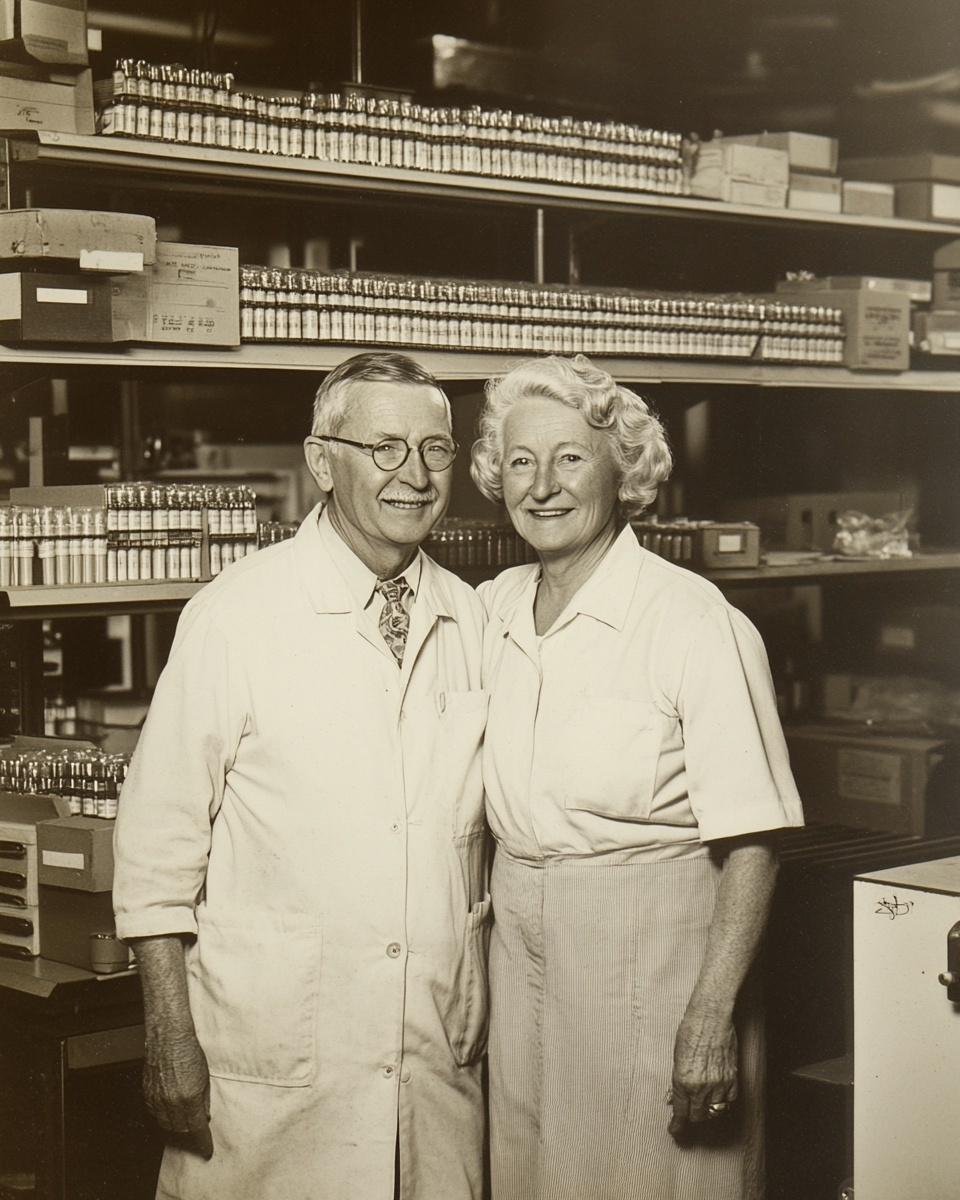
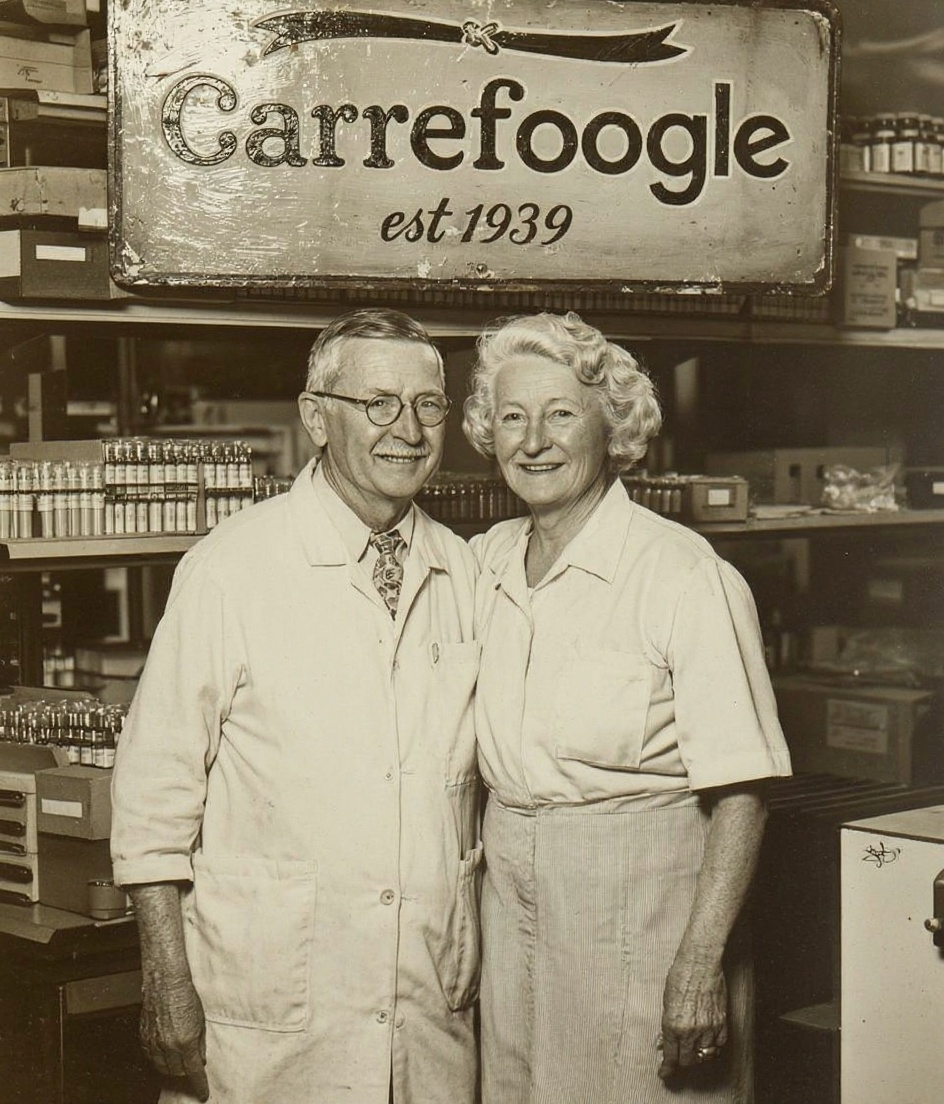
Update founders image with Kontext-enhanced version, refactor story layout
Replace founders photo with AI-enhanced vintage version featuring
Carrefoogle est 1939 signage and more authentic film grain/aging.
Refactor Chapter Three section layout to centered single-column.

diff --git a/our-story.html b/our-story.html
@@ -76,21 +76,15 @@
     </section>
 
     <!-- The Conglomerate -->
-    <section class="section">
-      <div class="split">
-        <div class="split-text">
-          <p class="kicker">Chapter Three &mdash; 2000&ndash;Present</p>
-          <h2 class="section-title section-title-left">From Toothpaste to Everything</h2>
-          <p class="body-text">The success of Bluetooth Toothpaste attracted attention, capital, and a series of acquisitions that Harold, who passed peacefully in 2003, did not live to see. Margaret, who continued to serve as Chair Emerita until her own passing in 2011, presided over the transformation of a toothpaste manufacturer into a diversified global conglomerate.</p>
-          <p class="body-text">Consumer electronics. Defense contracting. Artisanal yogurt. Cloud infrastructure. Pet insurance. Aerospace. Energy. Finance. Media. Each acquisition was guided by the same principle that had produced Bluetooth Toothpaste: if a human problem could be solved by human connection, it could also be solved by a product. And products scale.</p>
-          <p class="body-text">In 2001, the Bestie division was established. In 2014, the Community Sciences Division began its first observational studies. In 2025, Bestie 3.0 entered beta.</p>
-          <p class="body-text">Today, Carrefoogle serves 4.2 billion customers across 194 countries. The company is guided by the Board of Stewardship, the Executive Governance Committee, the Values Alignment Task Force, and a network of divisional oversight councils whose reporting structures are reviewed quarterly. Harold and Margaret look down from portraits in every Carrefoogle lobby worldwide &mdash; always elderly, always kind, always together.</p>
-        </div>
-        <div class="split-image">
-          <img src="assets/images/founders/carrefoogle-hq.jpg" alt="Carrefoogle Global Headquarters" class="rounded-img">
-          <p class="fine-print" style="text-align: center; margin-top: 8px;">Carrefoogle Global Headquarters.</p>
-        </div>
-      </div>
+    <section class="section" style="max-width: 760px;">
+      <p class="kicker" style="text-align: center;">Chapter Three &mdash; 2000&ndash;Present</p>
+      <h2 class="section-title">From Toothpaste to Everything</h2>
+      <img src="assets/images/founders/carrefoogle-hq.jpg" alt="Carrefoogle Global Headquarters" class="rounded-img" style="margin-bottom: 8px;">
+      <p class="fine-print" style="text-align: center; margin-bottom: 32px;">Carrefoogle Global Headquarters.</p>
+      <p class="body-text" style="text-align: center;">The success of Bluetooth Toothpaste attracted attention, capital, and a series of acquisitions that Harold, who passed peacefully in 2003, did not live to see. Margaret, who continued to serve as Chair Emerita until her own passing in 2011, presided over the transformation of a toothpaste manufacturer into a diversified global conglomerate.</p>
+      <p class="body-text" style="text-align: center;">Consumer electronics. Defense contracting. Artisanal yogurt. Cloud infrastructure. Pet insurance. Aerospace. Energy. Finance. Media. Each acquisition was guided by the same principle that had produced Bluetooth Toothpaste: if a human problem could be solved by human connection, it could also be solved by a product. And products scale.</p>
+      <p class="body-text" style="text-align: center;">In 2001, the Bestie division was established. In 2014, the Community Sciences Division began its first observational studies. In 2025, Bestie 3.0 entered beta.</p>
+      <p class="body-text" style="text-align: center;">Today, Carrefoogle serves 4.2 billion customers across 194 countries. The company is guided by the Board of Stewardship, the Executive Governance Committee, the Values Alignment Task Force, and a network of divisional oversight councils whose reporting structures are reviewed quarterly. Harold and Margaret look down from portraits in every Carrefoogle lobby worldwide &mdash; always elderly, always kind, always together.</p>
     </section>
 
     <!-- Timeline -->
